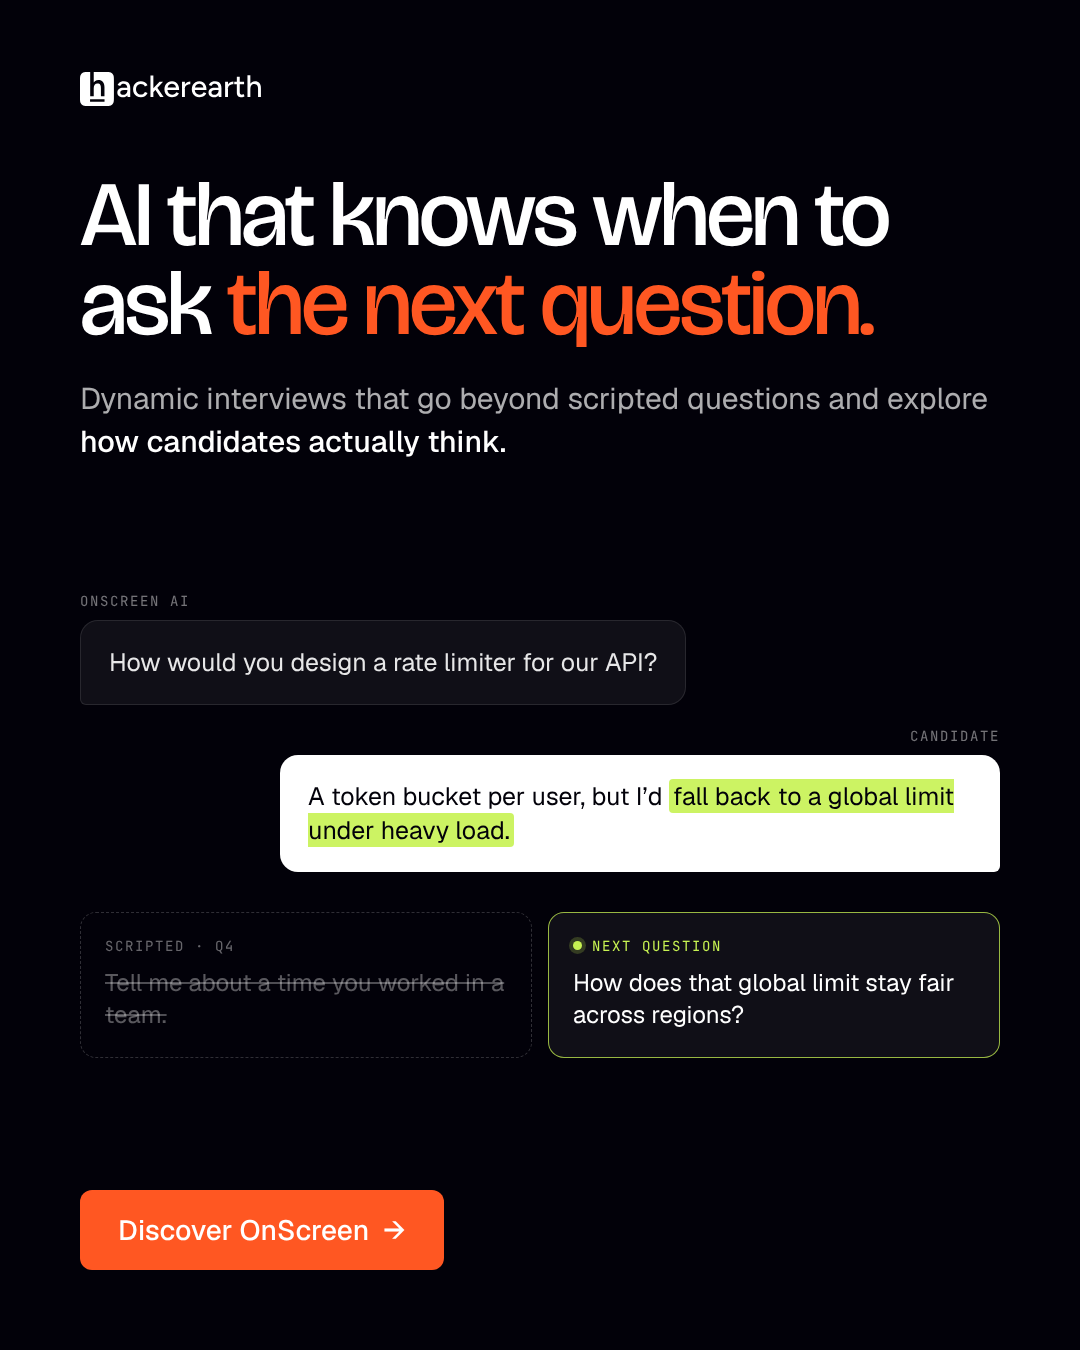
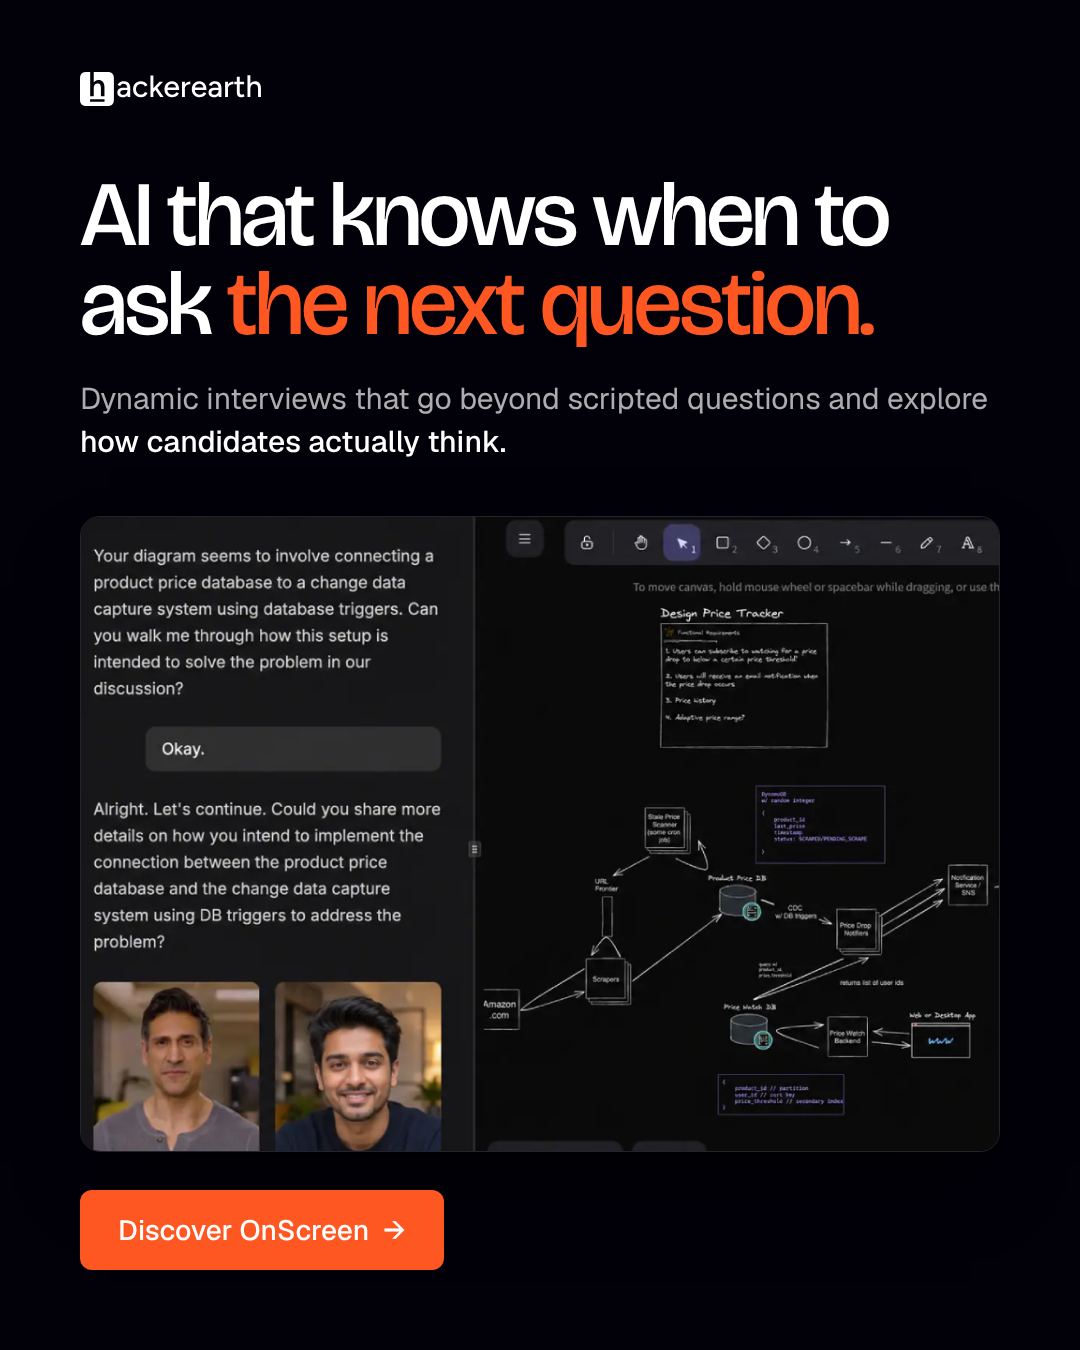
Next-question post: replace chat mock with OnScreen product screenshot
Claude-Session: https://claude.ai/code/session_011WvSfdXWh4koNY7sQ51yCa

Changed region(s): [[0.0611, 0.3733, 0.9472, 0.8711], [0.4583, 0.84, 0.6417, 0.8711]]

diff --git a/onscreen-carousel/insta-next-question.html b/onscreen-carousel/insta-next-question.html
@@ -86,24 +86,8 @@
   .p .content { position: absolute; top: 170px; left: 80px; right: 80px; }
   .p h2 { font-size: 92px; line-height: 0.97; letter-spacing: -3px; margin-bottom: 30px; }
   .p .lead { font-size: 30px; line-height: 1.42; }
-  .thread { position: absolute; left: 80px; right: 80px; top: 592px; display: flex; flex-direction: column; gap: 22px; }
-  .who { font-family: var(--mono); font-size: 14px; letter-spacing: 1.6px; text-transform: uppercase; color: rgba(255,255,255,0.45); margin-bottom: 10px; }
-  .msg { width: fit-content; max-width: 720px; text-align: left; padding: 24px 28px; border-radius: 18px; font-size: 25px; line-height: 1.38; }
-  .msg.ai { background: rgba(255,255,255,0.06); border: 1px solid rgba(255,255,255,0.1); border-bottom-left-radius: 6px; color: rgba(255,255,255,0.9); }
-  .msg.cand { align-self: flex-end; background: #fff; color: var(--text); border-bottom-right-radius: 6px; }
-  .msg.cand mark { background: rgba(199,242,82,0.9); color: var(--text); padding: 1px 4px; border-radius: 4px; }
-  .r { align-self: flex-end; display: flex; flex-direction: column; align-items: flex-end; }
-  .next { display: grid; grid-template-columns: 1fr 1fr; gap: 16px; margin-top: 18px; }
-  .opt { border-radius: 16px; padding: 24px 24px 26px; display: flex; flex-direction: column; gap: 12px; }
-  .opt .tg { display: flex; align-items: center; gap: 10px; font-family: var(--mono); font-size: 14px; letter-spacing: 1.6px; text-transform: uppercase; }
-  .opt .tx { font-size: 24px; line-height: 1.35; }
-  .opt.skip { border: 1.5px dashed rgba(255,255,255,0.18); }
-  .opt.skip .tg { color: rgba(255,255,255,0.4); }
-  .opt.skip .tx { color: rgba(255,255,255,0.35); text-decoration: line-through; text-decoration-color: rgba(255,255,255,0.3); }
-  .opt.pick { background: rgba(255,255,255,0.06); border: 1.5px solid rgba(199,242,82,0.75); }
-  .opt.pick .tg { color: var(--lime); }
-  .opt.pick .tg i { width: 9px; height: 9px; border-radius: 50%; background: var(--lime); box-shadow: 0 0 0 4px rgba(199,242,82,0.2); }
-  .opt.pick .tx { color: #fff; }
+  .shot { position: absolute; left: 80px; right: 80px; top: 516px; height: 636px; border-radius: 20px; overflow: hidden; border: 1px solid rgba(255,255,255,0.14); box-shadow: 0 40px 80px -30px rgba(0,0,0,0.9); }
+  .shot img { display: block; width: 100%; height: 100%; object-fit: cover; object-position: center 22%; }
   .foot { position: absolute; left: 80px; right: 80px; bottom: 80px; }
   .btn { display: inline-flex; align-items: center; gap: 14px; background: var(--cta); color: #fff; font-weight: 500; font-size: 28px; padding: 22px 38px; border-radius: 12px; }
 </style>
@@ -116,14 +100,7 @@
     <h2>AI that knows when to ask <em>the next question.</em></h2>
     <p class="lead">Dynamic interviews that go beyond scripted questions and explore <strong>how candidates actually think.</strong></p>
   </div>
-  <div class="thread">
-    <div><div class="who">OnScreen AI</div><div class="msg ai">How would you design a rate limiter for our API?</div></div>
-    <div class="r"><div class="who">Candidate</div><div class="msg cand">A token bucket per user, but I’d <mark>fall back to a global limit under heavy load.</mark></div></div>
-    <div class="next">
-      <div class="opt skip"><span class="tg">Scripted · Q4</span><span class="tx">Tell me about a time you worked in a team.</span></div>
-      <div class="opt pick"><span class="tg"><i></i>Next question</span><span class="tx">How does that global limit stay fair across regions?</span></div>
-    </div>
-  </div>
+  <div class="shot"><img src="../6a22cd40ae61a6305bb111ee_sample-2%20(3).webp" alt=""></div>
   <div class="foot"><span class="btn">Discover OnScreen <span>→</span></span></div>
 </section>
 
